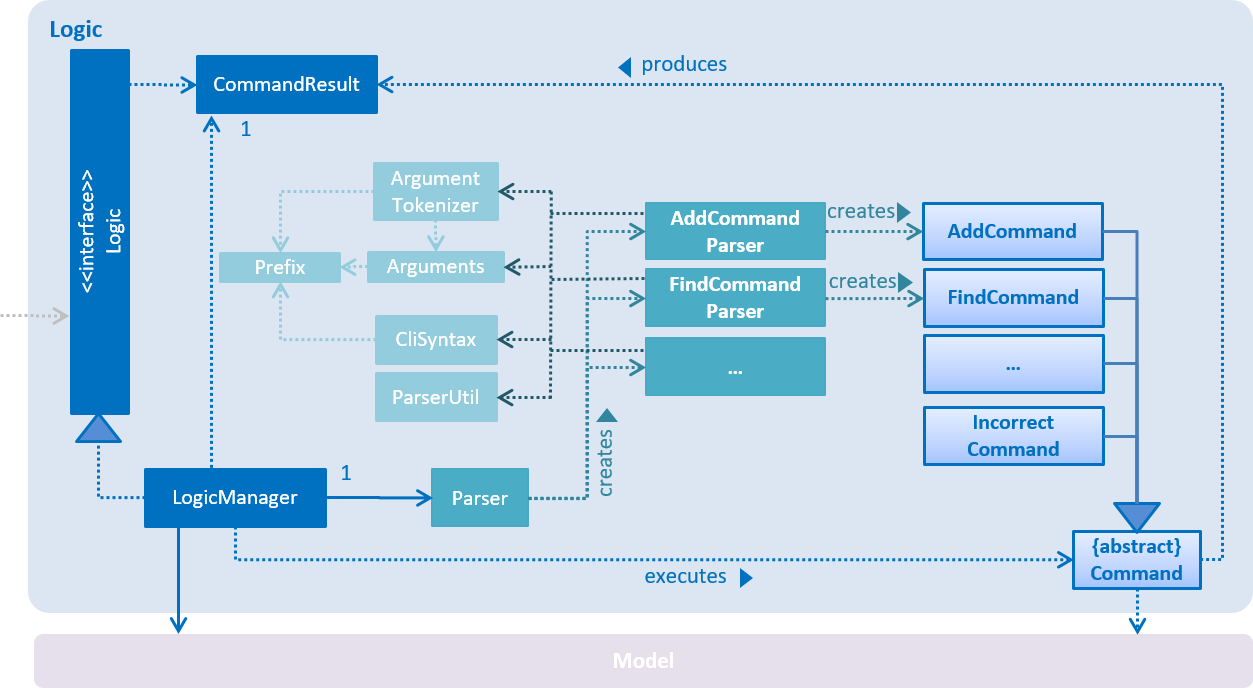
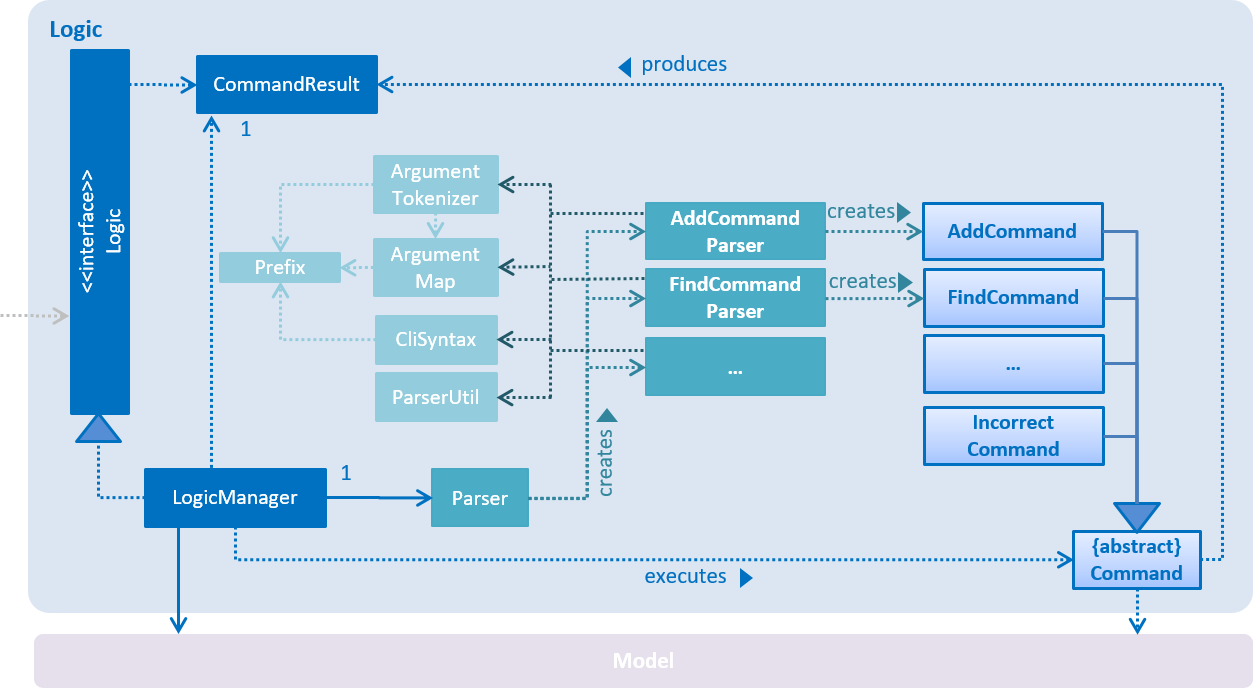
Interdiff between v14 and v15

Changed region(s): [[0.2801, 0.2137, 0.4358, 0.4578], [0.2179, 0.2747, 0.249, 0.3052]]

diff --git a/src/test/java/seedu/address/logic/parser/ArgumentTokenizerTest.java b/src/test/java/seedu/address/logic/parser/ArgumentTokenizerTest.java
@@ -18,46 +18,46 @@ public class ArgumentTokenizerTest {
     public void tokenize_emptyArgsString_noValues() {
         ArgumentTokenizer tokenizer = new ArgumentTokenizer(slashP);
         String argsString = "  ";
-        Arguments arguments = tokenizer.tokenize(argsString);
+        ArgumentMap argumentMap = tokenizer.tokenize(argsString);
 
-        assertPreambleEmpty(arguments);
-        assertArgumentAbsent(arguments, slashP);
+        assertPreambleEmpty(argumentMap);
+        assertArgumentAbsent(argumentMap, slashP);
     }
 
-    private void assertPreamblePresent(Arguments arguments, String expectedPreamble) {
-        assertEquals(expectedPreamble, arguments.getPreamble());
+    private void assertPreamblePresent(ArgumentMap argumentMap, String expectedPreamble) {
+        assertEquals(expectedPreamble, argumentMap.getPreamble());
     }
 
-    private void assertPreambleEmpty(Arguments arguments) {
-        assertTrue(arguments.getPreamble().isEmpty());
+    private void assertPreambleEmpty(ArgumentMap argumentMap) {
+        assertTrue(argumentMap.getPreamble().isEmpty());
     }
 
-    private void assertArgumentPresent(Arguments arguments, Prefix prefix, String... expectedValues) {
+    private void assertArgumentPresent(ArgumentMap argumentMap, Prefix prefix, String... expectedValues) {
 
         // Verify the last value is returned
-        assertEquals(expectedValues[expectedValues.length - 1], arguments.getValue(prefix).get());
+        assertEquals(expectedValues[expectedValues.length - 1], argumentMap.getValue(prefix).get());
 
         // Verify the number of values returned is as expected
-        assertEquals(expectedValues.length, arguments.getAllValues(prefix).size());
+        assertEquals(expectedValues.length, argumentMap.getAllValues(prefix).size());
 
         // Verify all values returned are as expected and in order
         for (int i = 0; i < expectedValues.length; i++) {
-            assertEquals(expectedValues[i], arguments.getAllValues(prefix).get(i));
+            assertEquals(expectedValues[i], argumentMap.getAllValues(prefix).get(i));
         }
     }
 
-    private void assertArgumentAbsent(Arguments arguments, Prefix prefix) {
-        assertFalse(arguments.getValue(prefix).isPresent());
+    private void assertArgumentAbsent(ArgumentMap argumentMap, Prefix prefix) {
+        assertFalse(argumentMap.getValue(prefix).isPresent());
     }
 
     @Test
     public void tokenize_noPrefixes_allTakenAsPreamble() {
         ArgumentTokenizer tokenizer = new ArgumentTokenizer();
         String argsString = "  some random string /t tag with leading and trailing spaces ";
-        Arguments arguments = tokenizer.tokenize(argsString);
+        ArgumentMap argumentMap = tokenizer.tokenize(argsString);
 
         // Same string expected as preamble, but leading/trailing spaces should be trimmed
-        assertPreamblePresent(arguments, argsString.trim());
+        assertPreamblePresent(argumentMap, argsString.trim());
 
     }
 
@@ -67,15 +67,15 @@ public class ArgumentTokenizerTest {
 
         // Preamble present
         String argsString = "  Some preamble string /p Argument value ";
-        Arguments arguments = tokenizer.tokenize(argsString);
-        assertPreamblePresent(arguments, "Some preamble string");
-        assertArgumentPresent(arguments, slashP, "Argument value");
+        ArgumentMap argumentMap = tokenizer.tokenize(argsString);
+        assertPreamblePresent(argumentMap, "Some preamble string");
+        assertArgumentPresent(argumentMap, slashP, "Argument value");
 
         // No preamble
         argsString = " /p   Argument value ";
-        arguments = tokenizer.tokenize(argsString);
-        assertPreambleEmpty(arguments);
-        assertArgumentPresent(arguments, slashP, "Argument value");
+        argumentMap = tokenizer.tokenize(argsString);
+        assertPreambleEmpty(argumentMap);
+        assertArgumentPresent(argumentMap, slashP, "Argument value");
 
     }
 
@@ -85,38 +85,38 @@ public class ArgumentTokenizerTest {
 
         // Only two arguments are present
         String argsString = "SomePreambleString -t dashT-Value/pslashP value";
-        Arguments arguments = tokenizer.tokenize(argsString);
-        assertPreamblePresent(arguments, "SomePreambleString");
-        assertArgumentPresent(arguments, slashP, "slashP value");
-        assertArgumentPresent(arguments, dashT, "dashT-Value");
-        assertArgumentAbsent(arguments, hatQ);
+        ArgumentMap argumentMap = tokenizer.tokenize(argsString);
+        assertPreamblePresent(argumentMap, "SomePreambleString");
+        assertArgumentPresent(argumentMap, slashP, "slashP value");
+        assertArgumentPresent(argumentMap, dashT, "dashT-Value");
+        assertArgumentAbsent(argumentMap, hatQ);
 
         /* Also covers: Cases where the prefix doesn't have a space before/after it */
 
         // All three arguments are present, no spaces before the prefixes
         argsString = "Different Preamble String^Q 111-t dashT-Value/p slashP value";
-        arguments = tokenizer.tokenize(argsString);
-        assertPreamblePresent(arguments, "Different Preamble String");
-        assertArgumentPresent(arguments, slashP, "slashP value");
-        assertArgumentPresent(arguments, dashT, "dashT-Value");
-        assertArgumentPresent(arguments, hatQ, "111");
+        argumentMap = tokenizer.tokenize(argsString);
+        assertPreamblePresent(argumentMap, "Different Preamble String");
+        assertArgumentPresent(argumentMap, slashP, "slashP value");
+        assertArgumentPresent(argumentMap, dashT, "dashT-Value");
+        assertArgumentPresent(argumentMap, hatQ, "111");
 
         /* Also covers: Reusing of the tokenizer multiple times */
 
-        // Reuse tokenizer on an empty string to ensure state is correctly reset
-        //   (i.e. no stale values from the previous tokenizing remain in the state)
+        // Reuse tokenizer on an empty string to ensure ArgumentMap is correctly reset
+        // (i.e. no stale values from the previous tokenizing remain)
         argsString = "";
-        arguments = tokenizer.tokenize(argsString);
-        assertPreambleEmpty(arguments);
-        assertArgumentAbsent(arguments, slashP);
+        argumentMap = tokenizer.tokenize(argsString);
+        assertPreambleEmpty(argumentMap);
+        assertArgumentAbsent(argumentMap, slashP);
 
         /** Also covers: testing for prefixes not specified as a prefix **/
 
         // Prefixes not previously given to the tokenizer should not return any values
         argsString = unknownPrefix.getPrefix() + "some value";
-        arguments = tokenizer.tokenize(argsString);
-        assertArgumentAbsent(arguments, unknownPrefix);
-        assertPreamblePresent(arguments, argsString); // Unknown prefix is taken as part of preamble
+        argumentMap = tokenizer.tokenize(argsString);
+        assertArgumentAbsent(argumentMap, unknownPrefix);
+        assertPreamblePresent(argumentMap, argsString); // Unknown prefix is taken as part of preamble
     }
 
     @Test
@@ -125,11 +125,11 @@ public class ArgumentTokenizerTest {
 
         // Two arguments repeated, some have empty values
         String argsString = "SomePreambleString -t dashT-Value ^Q ^Q-t another dashT value /p slashP value -t";
-        Arguments arguments = tokenizer.tokenize(argsString);
-        assertPreamblePresent(arguments, "SomePreambleString");
-        assertArgumentPresent(arguments, slashP, "slashP value");
-        assertArgumentPresent(arguments, dashT, "dashT-Value", "another dashT value", "");
-        assertArgumentPresent(arguments, hatQ, "", "");
+        ArgumentMap argumentMap = tokenizer.tokenize(argsString);
+        assertPreamblePresent(argumentMap, "SomePreambleString");
+        assertArgumentPresent(argumentMap, slashP, "slashP value");
+        assertArgumentPresent(argumentMap, dashT, "dashT-Value", "another dashT value", "");
+        assertArgumentPresent(argumentMap, hatQ, "", "");
     }
 
     @Test

diff --git a/src/main/java/seedu/address/logic/parser/ArgumentTokenizer.java b/src/main/java/seedu/address/logic/parser/ArgumentTokenizer.java
@@ -28,17 +28,17 @@ public class ArgumentTokenizer {
     }
 
     /**
-     * Tokenizes an arguments string and returns an Arguments object that maps prefixes to their respective argument
+     * Tokenizes an arguments string and returns an ArgumentMap object that maps prefixes to their respective argument
      * values. Only prefixes provided as arguments to the constructor of this {@cocde ArgumentTokenizer} object will be
      * recognized in the arguments string.
      *
      * @param argsString Arguments string of the form: {@code preamble <prefix>value <prefix>value ...}
-     * @return           Arguments object that maps prefixes to their arguments
+     * @return           ArgumentMap object that maps prefixes to their arguments
      */
-    public Arguments tokenize(String argsString) {
+    public ArgumentMap tokenize(String argsString) {
         List<PrefixPosition> positions = findAllPrefixPositions(argsString);
-        Arguments arguments = extractArguments(argsString, positions);
-        return arguments;
+        ArgumentMap argumentMap = extractArguments(argsString, positions);
+        return argumentMap;
     }
 
     /**
@@ -71,14 +71,14 @@ public class ArgumentTokenizer {
     }
 
     /**
-     * Extracts prefixes and their argument values, and returns an Arguments object that maps the extracted prefixes to
-     * their respective arguments. Prefixes are extracted based on their zero-based positions in {@code argsString}.
+     * Extracts prefixes and their argument values, and returns an ArgumentMap object that maps the extracted prefixes
+     * to their respective arguments. Prefixes are extracted based on their zero-based positions in {@code argsString}.
      *
      * @param argsString      Arguments string of the form: {@code preamble <prefix>value <prefix>value ...}
      * @param prefixPositions Zero-based positions of all prefixes in {@code argsString}
-     * @return                Arguments object that maps prefixes to their arguments
+     * @return                ArgumentMap object that maps prefixes to their arguments
      */
-    private Arguments extractArguments(String argsString, List<PrefixPosition> prefixPositions) {
+    private ArgumentMap extractArguments(String argsString, List<PrefixPosition> prefixPositions) {
 
         // Sort by start position
         prefixPositions.sort((prefix1, prefix2) -> prefix1.getStartPosition() - prefix2.getStartPosition());
@@ -104,7 +104,7 @@ public class ArgumentTokenizer {
             tokenizedArguments.put(argPrefix, argValues);
         }
 
-        return new Arguments(tokenizedArguments);
+        return new ArgumentMap(tokenizedArguments);
     }
 
     /**

diff --git a/src/main/java/seedu/address/logic/parser/EditCommandParser.java b/src/main/java/seedu/address/logic/parser/EditCommandParser.java
@@ -27,12 +27,12 @@ public class EditCommandParser {
      * Parses the given {@code String} of arguments in the context of the EditCommand
      * and returns an EditCommand object for execution.
      */
-    public Command parse(String argsString) {
-        assert argsString != null;
+    public Command parse(String args) {
+        assert args != null;
         ArgumentTokenizer argsTokenizer =
                 new ArgumentTokenizer(PREFIX_PHONE, PREFIX_EMAIL, PREFIX_ADDRESS, PREFIX_TAG);
-        Arguments arguments = argsTokenizer.tokenize(argsString);
-        List<Optional<String>> preambleFields = ParserUtil.splitPreamble(arguments.getPreamble(), 2);
+        ArgumentMap argumentMap = argsTokenizer.tokenize(args);
+        List<Optional<String>> preambleFields = ParserUtil.splitPreamble(argumentMap.getPreamble(), 2);
 
         Optional<Integer> index = preambleFields.get(0).flatMap(ParserUtil::parseIndex);
         if (!index.isPresent()) {
@@ -42,10 +42,10 @@ public class EditCommandParser {
         EditPersonDescriptor editPersonDescriptor = new EditPersonDescriptor();
         try {
             editPersonDescriptor.setName(ParserUtil.parseName(preambleFields.get(1)));
-            editPersonDescriptor.setPhone(ParserUtil.parsePhone(arguments.getValue(PREFIX_PHONE)));
-            editPersonDescriptor.setEmail(ParserUtil.parseEmail(arguments.getValue(PREFIX_EMAIL)));
-            editPersonDescriptor.setAddress(ParserUtil.parseAddress(arguments.getValue(PREFIX_ADDRESS)));
-            editPersonDescriptor.setTags(parseTagsForEdit(arguments.getAllValues(PREFIX_TAG)));
+            editPersonDescriptor.setPhone(ParserUtil.parsePhone(argumentMap.getValue(PREFIX_PHONE)));
+            editPersonDescriptor.setEmail(ParserUtil.parseEmail(argumentMap.getValue(PREFIX_EMAIL)));
+            editPersonDescriptor.setAddress(ParserUtil.parseAddress(argumentMap.getValue(PREFIX_ADDRESS)));
+            editPersonDescriptor.setTags(parseTagsForEdit(argumentMap.getAllValues(PREFIX_TAG)));
         } catch (IllegalValueException ive) {
             return new IncorrectCommand(ive.getMessage());
         }

diff --git a/src/main/java/seedu/address/logic/parser/Parser.java b/src/main/java/seedu/address/logic/parser/Parser.java
@@ -24,9 +24,9 @@ import seedu.address.logic.commands.SelectCommand;
 public class Parser {
 
     /**
-     * Used for initial separation of command word and arguments string .
+     * Used for initial separation of command word and args.
      */
-    private static final Pattern BASIC_COMMAND_FORMAT = Pattern.compile("(?<commandWord>\\S+)(?<argsString>.*)");
+    private static final Pattern BASIC_COMMAND_FORMAT = Pattern.compile("(?<commandWord>\\S+)(?<arguments>.*)");
 
     /**
      * Parses user input into command for execution.
@@ -41,26 +41,26 @@ public class Parser {
         }
 
         final String commandWord = matcher.group("commandWord");
-        final String argsString = matcher.group("argsString");
+        final String arguments = matcher.group("arguments");
         switch (commandWord) {
 
         case AddCommand.COMMAND_WORD:
-            return new AddCommandParser().parse(argsString);
+            return new AddCommandParser().parse(arguments);
 
         case EditCommand.COMMAND_WORD:
-            return new EditCommandParser().parse(argsString);
+            return new EditCommandParser().parse(arguments);
 
         case SelectCommand.COMMAND_WORD:
-            return new SelectCommandParser().parse(argsString);
+            return new SelectCommandParser().parse(arguments);
 
         case DeleteCommand.COMMAND_WORD:
-            return new DeleteCommandParser().parse(argsString);
+            return new DeleteCommandParser().parse(arguments);
 
         case ClearCommand.COMMAND_WORD:
             return new ClearCommand();
 
         case FindCommand.COMMAND_WORD:
-            return new FindCommandParser().parse(argsString);
+            return new FindCommandParser().parse(arguments);
 
         case ListCommand.COMMAND_WORD:
             return new ListCommand();

diff --git a/src/main/java/seedu/address/logic/parser/AddCommandParser.java b/src/main/java/seedu/address/logic/parser/AddCommandParser.java
@@ -22,17 +22,17 @@ public class AddCommandParser {
      * Parses the given {@code String} of arguments in the context of the AddCommand
      * and returns an AddCommand object for execution.
      */
-    public Command parse(String argsString) {
+    public Command parse(String args) {
         ArgumentTokenizer argsTokenizer =
                 new ArgumentTokenizer(PREFIX_PHONE, PREFIX_EMAIL, PREFIX_ADDRESS, PREFIX_TAG);
-        Arguments arguments = argsTokenizer.tokenize(argsString);
+        ArgumentMap argumentMap = argsTokenizer.tokenize(args);
         try {
             return new AddCommand(
-                    arguments.getPreamble(),
-                    arguments.getValue(PREFIX_PHONE).get(),
-                    arguments.getValue(PREFIX_EMAIL).get(),
-                    arguments.getValue(PREFIX_ADDRESS).get(),
-                    ParserUtil.parseTags(arguments.getAllValues(PREFIX_TAG))
+                    argumentMap.getPreamble(),
+                    argumentMap.getValue(PREFIX_PHONE).get(),
+                    argumentMap.getValue(PREFIX_EMAIL).get(),
+                    argumentMap.getValue(PREFIX_ADDRESS).get(),
+                    ParserUtil.parseTags(argumentMap.getAllValues(PREFIX_TAG))
             );
         } catch (NoSuchElementException nsee) {
             return new IncorrectCommand(String.format(MESSAGE_INVALID_COMMAND_FORMAT, AddCommand.MESSAGE_USAGE));

diff --git a/src/main/java/seedu/address/logic/parser/ArgumentMap.java b/src/main/java/seedu/address/logic/parser/ArgumentMap.java
@@ -9,17 +9,17 @@ import java.util.Optional;
 /**
  * Stores mapping of prefixes to their respective arguments.
  */
-public class Arguments {
+public class ArgumentMap {
 
     /** Prefixes mapped to their respective arguments**/
     private final Map<Prefix, List<String>> arguments;
 
     /**
-     * Creates an Arguments object that stores the mapping of prefixes to their respective arguments.
+     * Creates an ArgumentMap object that stores the mapping of prefixes to their respective arguments.
      *
      * @param arguments Map with {@code Prefix} keys and {@code List<String>} argument values.
      */
-    public Arguments(Map<Prefix, List<String>> arguments) {
+    public ArgumentMap(Map<Prefix, List<String>> arguments) {
         this.arguments = arguments;
     }
 

diff --git a/src/main/java/seedu/address/logic/parser/DeleteCommandParser.java b/src/main/java/seedu/address/logic/parser/DeleteCommandParser.java
@@ -17,9 +17,9 @@ public class DeleteCommandParser {
      * Parses the given {@code String} of arguments in the context of the DeleteCommand
      * and returns an DeleteCommand object for execution.
      */
-    public Command parse(String argsString) {
+    public Command parse(String args) {
 
-        Optional<Integer> index = ParserUtil.parseIndex(argsString);
+        Optional<Integer> index = ParserUtil.parseIndex(args);
         if (!index.isPresent()) {
             return new IncorrectCommand(
                     String.format(MESSAGE_INVALID_COMMAND_FORMAT, DeleteCommand.MESSAGE_USAGE));

diff --git a/src/main/java/seedu/address/logic/parser/SelectCommandParser.java b/src/main/java/seedu/address/logic/parser/SelectCommandParser.java
@@ -17,8 +17,8 @@ public class SelectCommandParser {
      * Parses the given {@code String} of arguments in the context of the SelectCommand
      * and returns an SelectCommand object for execution.
      */
-    public Command parse(String argsString) {
-        Optional<Integer> index = ParserUtil.parseIndex(argsString);
+    public Command parse(String args) {
+        Optional<Integer> index = ParserUtil.parseIndex(args);
         if (!index.isPresent()) {
             return new IncorrectCommand(
                     String.format(MESSAGE_INVALID_COMMAND_FORMAT, SelectCommand.MESSAGE_USAGE));

diff --git a/src/main/java/seedu/address/logic/parser/FindCommandParser.java b/src/main/java/seedu/address/logic/parser/FindCommandParser.java
@@ -19,8 +19,8 @@ public class FindCommandParser {
      * Parses the given {@code String} of arguments in the context of the FindCommand
      * and returns an FindCommand object for execution.
      */
-    public Command parse(String argsString) {
-        String trimmedArgs = argsString.trim();
+    public Command parse(String args) {
+        String trimmedArgs = args.trim();
         if (trimmedArgs.isEmpty()) {
             return new IncorrectCommand(
                     String.format(MESSAGE_INVALID_COMMAND_FORMAT, FindCommand.MESSAGE_USAGE));
